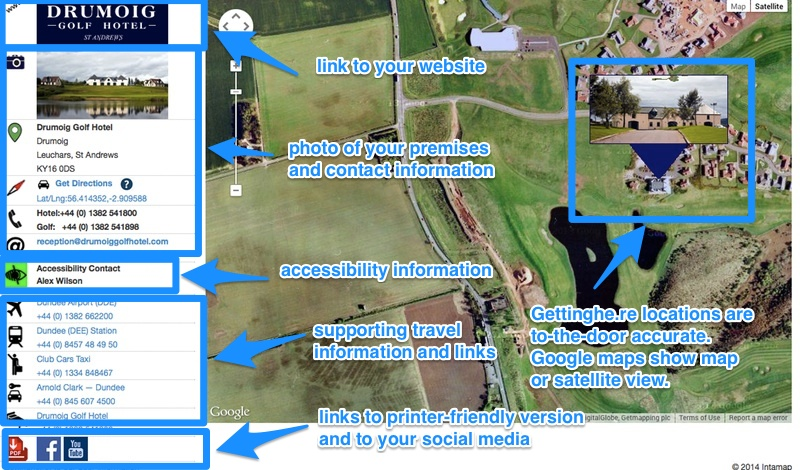
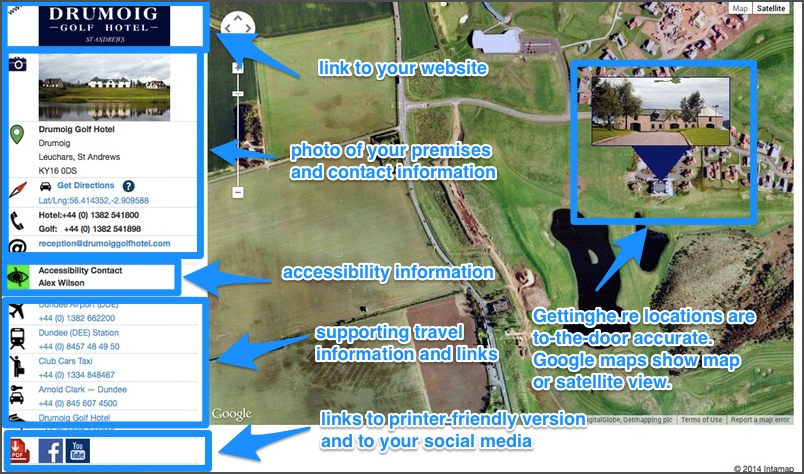
add border to annotated map

Changed region(s): [[0.0, 0.0, 1.0, 1.0], [0.5625, 0.4468, 0.5938, 0.4766]]

diff --git a/mainpage.html b/mainpage.html
@@ -104,7 +104,7 @@
   </div>
 
   <div class="row">
-    <div class="col-md-8 col-md-offset-2">
+    <div class="col-md-8 col-md-offset-2" id="map-annotated">
       <img src="./page.jpg" alt="" class="img-responsive">
     </div>
   </div>
